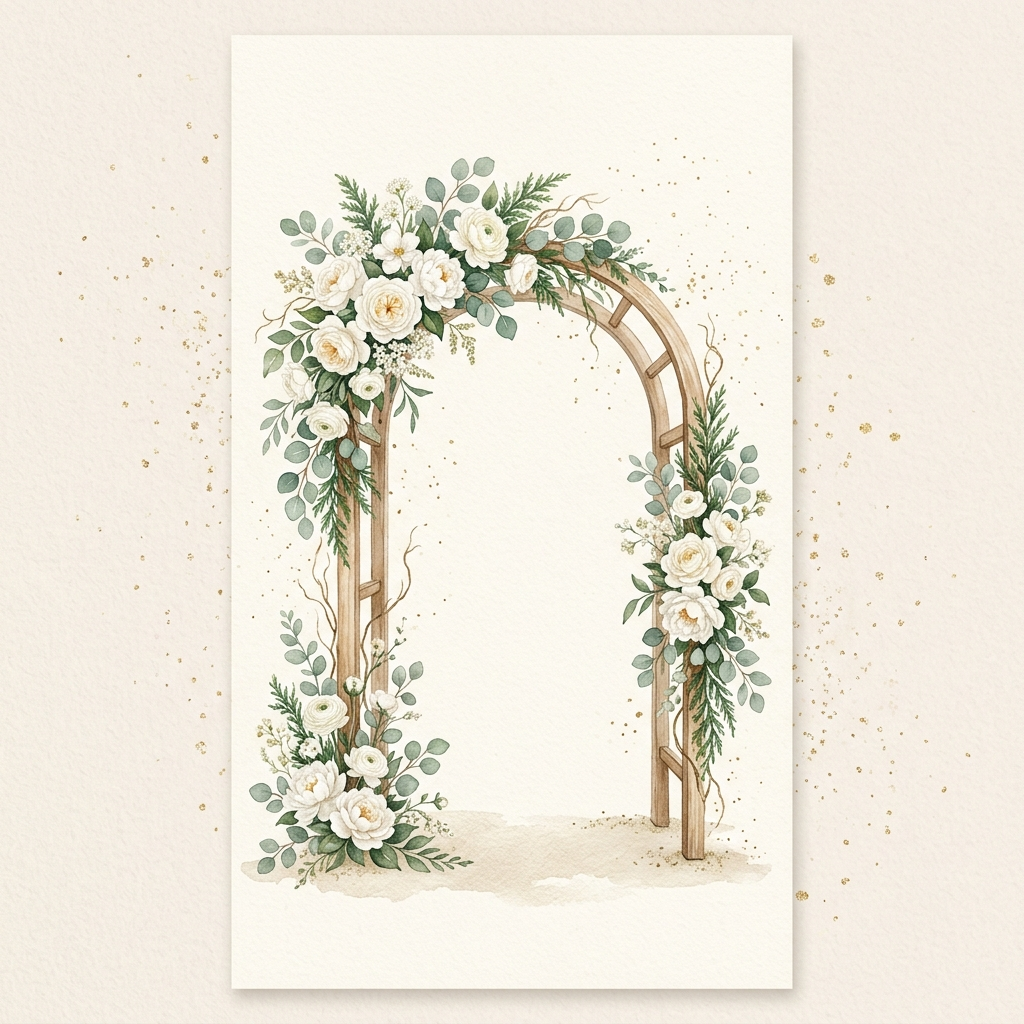
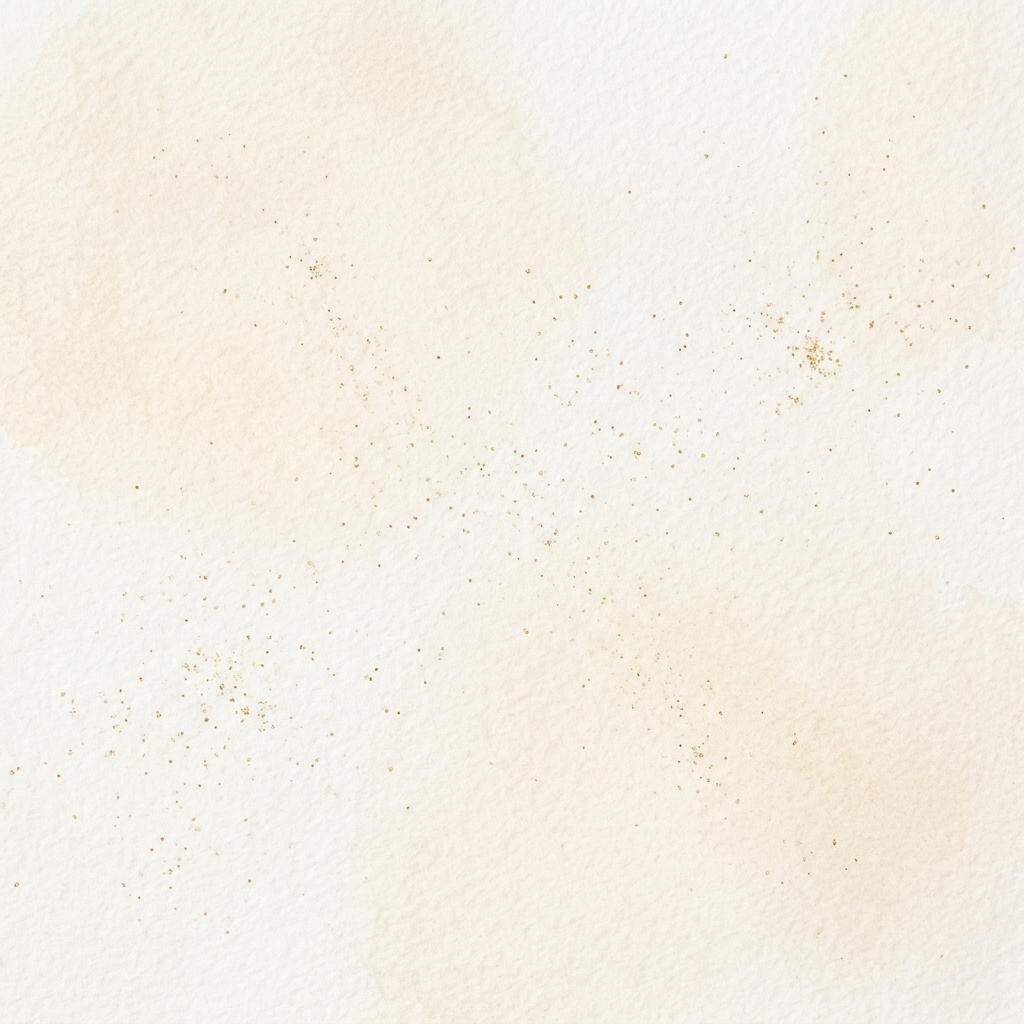
Update envelope to portrait layout, slow down animations, capitalize venue name, and replace image asset

diff --git a/style.css b/style.css
@@ -71,7 +71,7 @@ body {
   flex-direction: column;
   align-items: center;
   justify-content: center;
-  transition: opacity 0.8s cubic-bezier(0.4, 0, 0.2, 1), visibility 0.8s;
+  transition: opacity 2.0s cubic-bezier(0.4, 0, 0.2, 1), visibility 2.0s;
   overflow: hidden;
 
   /* Envelope local tokens */
@@ -79,8 +79,11 @@ body {
   --envelope-bg-inside: #D6A597;  /* Inside shadow color */
   --envelope-bg-light: #F2D2C6;   /* Highlight side flaps */
   --envelope-bg-dark: #DEB4A6;    /* Bottom shade flap */
-  --envelope-width: 320px;
-  --envelope-height: 220px;
+  --envelope-width: 280px;
+  --envelope-height: 420px;
+  --flap-height: 210px;
+  --card-height: 390px;
+  --card-translate-y: -320px;
 }
 
 .envelope-container {
@@ -153,44 +156,45 @@ body {
 /* Top Folding Flap */
 .envelope-top {
   background-color: var(--envelope-bg);
-  clip-path: polygon(0 0, 50% 55%, 100% 0);
+  clip-path: polygon(0 0, 50% 100%, 100% 0);
   z-index: 4;
-  height: 180px;
+  height: var(--flap-height);
   transform-origin: top center;
   transform: rotateX(0deg);
-  transition: transform 0.8s cubic-bezier(0.4, 0, 0.2, 1), z-index 0.2s 0.4s;
+  transition: transform 4.5s cubic-bezier(0.4, 0, 0.2, 1), z-index 0.2s 2.2s;
   box-shadow: 0 4px 10px rgba(0,0,0,0.06);
 }
 
-/* Monogram on Top Flap */
+/* Gold Wax Seal on Top Flap */
 .top-flap-monogram {
   position: absolute;
-  top: 25px;
+  bottom: 35px;
   left: 50%;
   transform: translateX(-50%);
-  width: 48px;
-  height: 48px;
-  border: 1px solid rgba(197, 168, 128, 0.5);
+  width: 50px;
+  height: 50px;
   border-radius: 50%;
+  background: radial-gradient(circle, #D4AF37 0%, #AA7C11 100%);
+  border: 2px solid #8B6508;
+  box-shadow: 0 4px 10px rgba(0, 0, 0, 0.25), inset 0 2px 4px rgba(255, 255, 255, 0.4);
   display: flex;
   align-items: center;
   justify-content: center;
   font-family: var(--font-serif);
-  font-size: 1.1rem;
-  color: var(--accent-gold-dark);
-  font-weight: 300;
+  font-size: 1.2rem;
+  color: #FFFFFF;
+  font-weight: 600;
+  text-shadow: 1px 1px 2px rgba(0, 0, 0, 0.4);
   letter-spacing: 1px;
-  background-color: rgba(255, 255, 255, 0.4);
-  box-shadow: inset 0 0 5px rgba(255, 255, 255, 0.6);
 }
 
 /* Card inside the envelope */
 .envelope-card {
   position: absolute;
-  bottom: 5px;
-  left: 12px;
-  right: 12px;
-  height: 195px;
+  bottom: 15px;
+  left: 15px;
+  right: 15px;
+  height: var(--card-height);
   background-color: #FFFFFF;
   border-radius: 6px;
   border: 1px solid var(--border-gold);
@@ -203,7 +207,7 @@ body {
   align-items: center;
   justify-content: center;
   transform: translateY(0);
-  transition: transform 0.8s cubic-bezier(0.4, 0, 0.2, 1) 0.5s;
+  transition: transform 4.5s cubic-bezier(0.4, 0, 0.2, 1) 2.5s;
 }
 
 .card-monogram {
@@ -259,7 +263,7 @@ body {
 }
 
 .envelope.opened .envelope-card {
-  transform: translateY(-135px) scale(1.04);
+  transform: translateY(var(--card-translate-y)) scale(1.02);
 }
 
 .envelope-wrapper.open {
@@ -962,23 +966,17 @@ body {
 }
 
 /* Responsive adjustments */
+@media (max-width: 350px) {
+  .envelope-wrapper {
+    --envelope-width: 240px;
+    --envelope-height: 360px;
+    --flap-height: 180px;
+    --card-height: 330px;
+    --card-translate-y: -270px;
+  }
+}
+
 @media (max-width: 400px) {
-  .envelope {
-    width: 320px;
-    height: 240px;
-  }
-  .top-flap {
-    border-width: 120px 160px 0 160px;
-  }
-  .left-flap {
-    border-width: 120px 0 120px 160px;
-  }
-  .right-flap {
-    border-width: 120px 160px 120px 0;
-  }
-  .bottom-flap {
-    border-width: 0 160px 120px 160px;
-  }
   .couple-names {
     font-size: 2.2rem;
   }

diff --git a/index.html b/index.html
@@ -7,7 +7,7 @@
   <!-- SEO & Meta Tags -->
   <meta name="description" content="You are cordially invited to celebrate the wedding of Swaliha and Ruwais on August 9, 2026. Please RSVP.">
   <meta property="og:title" content="Wedding Invitation - Swaliha & Ruwais">
-  <meta property="og:description" content="Celebrate with us on August 9, 2026 at Vanimel. RSVP online.">
+  <meta property="og:description" content="Celebrate with us on August 9, 2026 at Kuttiady. RSVP online.">
   <meta property="og:image" content="assets/wedding_arch.png">
   
   <!-- Google Fonts -->
@@ -106,9 +106,9 @@
 
         <div class="venue-block">
           <span class="venue-label">Venue</span>
-          <h3 class="venue-name">Vanimel</h3>
-          <p class="venue-address">Vanimel, Kozhikode, Kerala, India</p>
-          <a href="https://maps.google.com/?q=Vanimel,Kerala" target="_blank" rel="noopener noreferrer" class="maps-btn">
+          <h3 class="venue-name">Kunjiporayil</h3>
+          <p class="venue-address">Kuttiady, Kozhikode, Kerala, India</p>
+          <a href="https://maps.google.com/?q=Kunjiporayil,Kuttiady,Kerala" target="_blank" rel="noopener noreferrer" class="maps-btn">
             View Location on Map
           </a>
         </div>

diff --git a/app.js b/app.js
@@ -82,7 +82,7 @@ document.addEventListener('DOMContentLoaded', () => {
         if (heroSection) heroSection.classList.add('active');
         handleScrollAnimations();
       }, 100);
-    }, 1600);
+    }, 8500);
   });
 
   // --- Countdown Timer ---